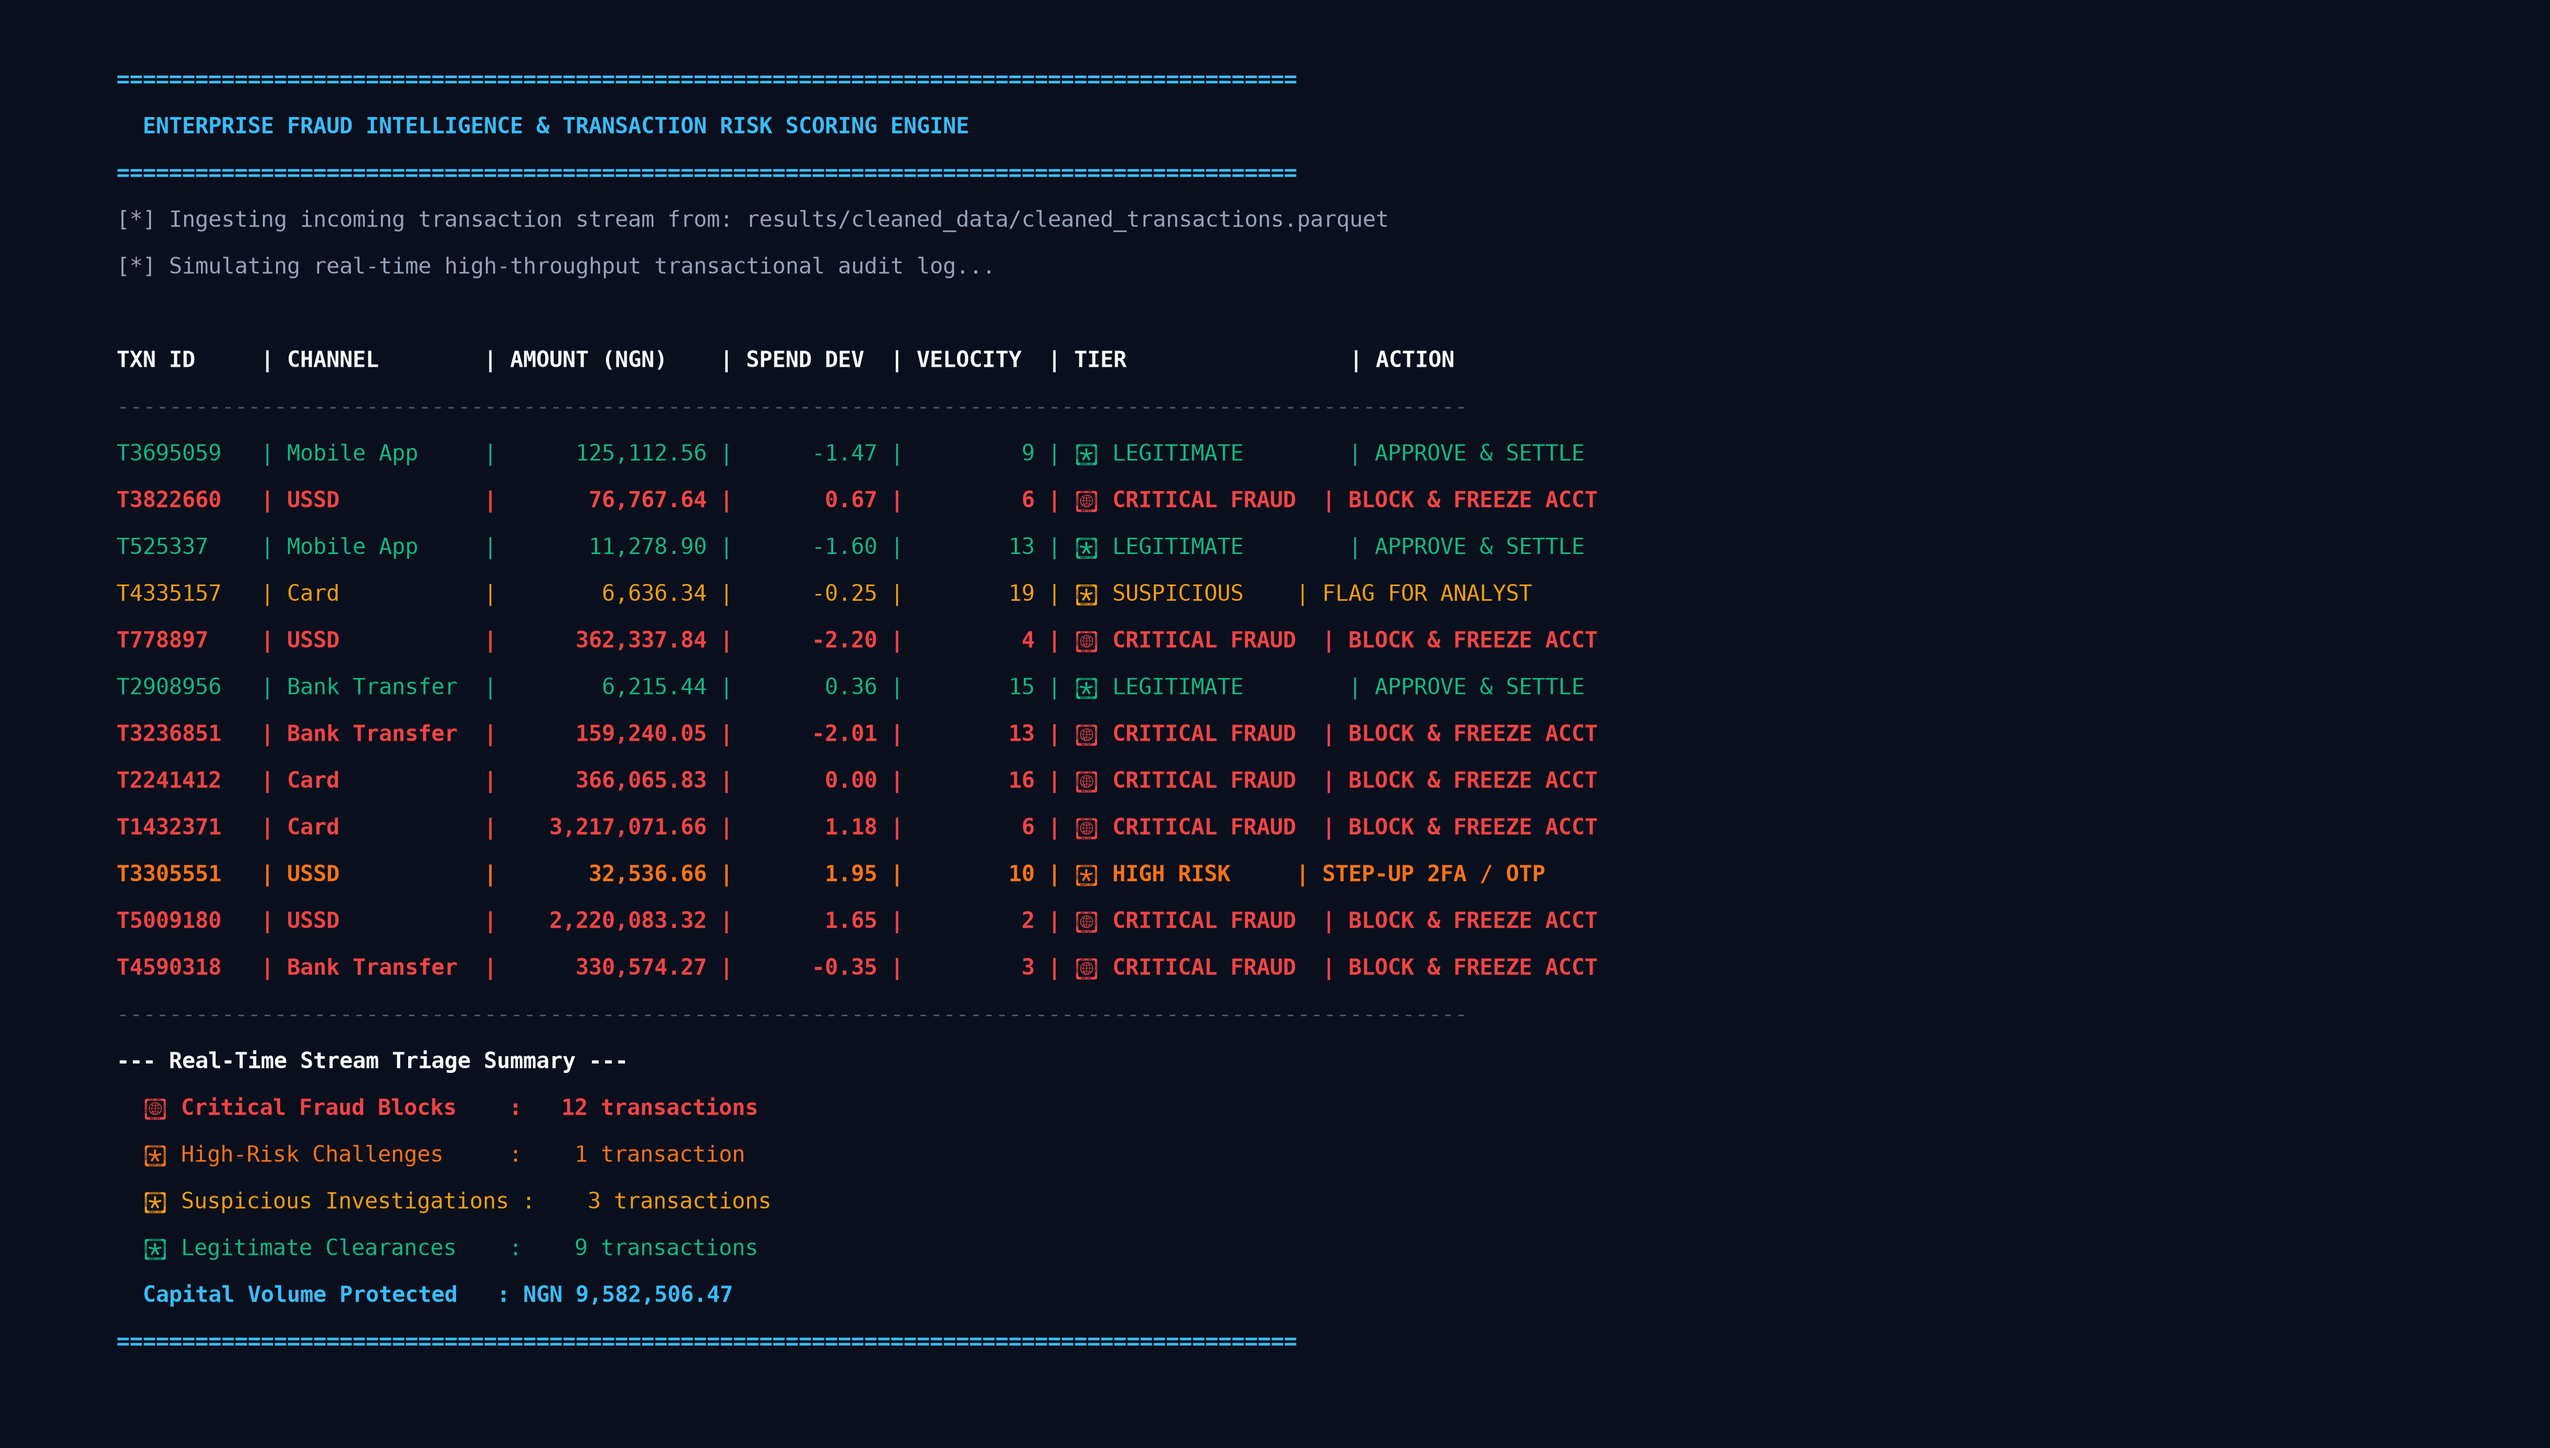
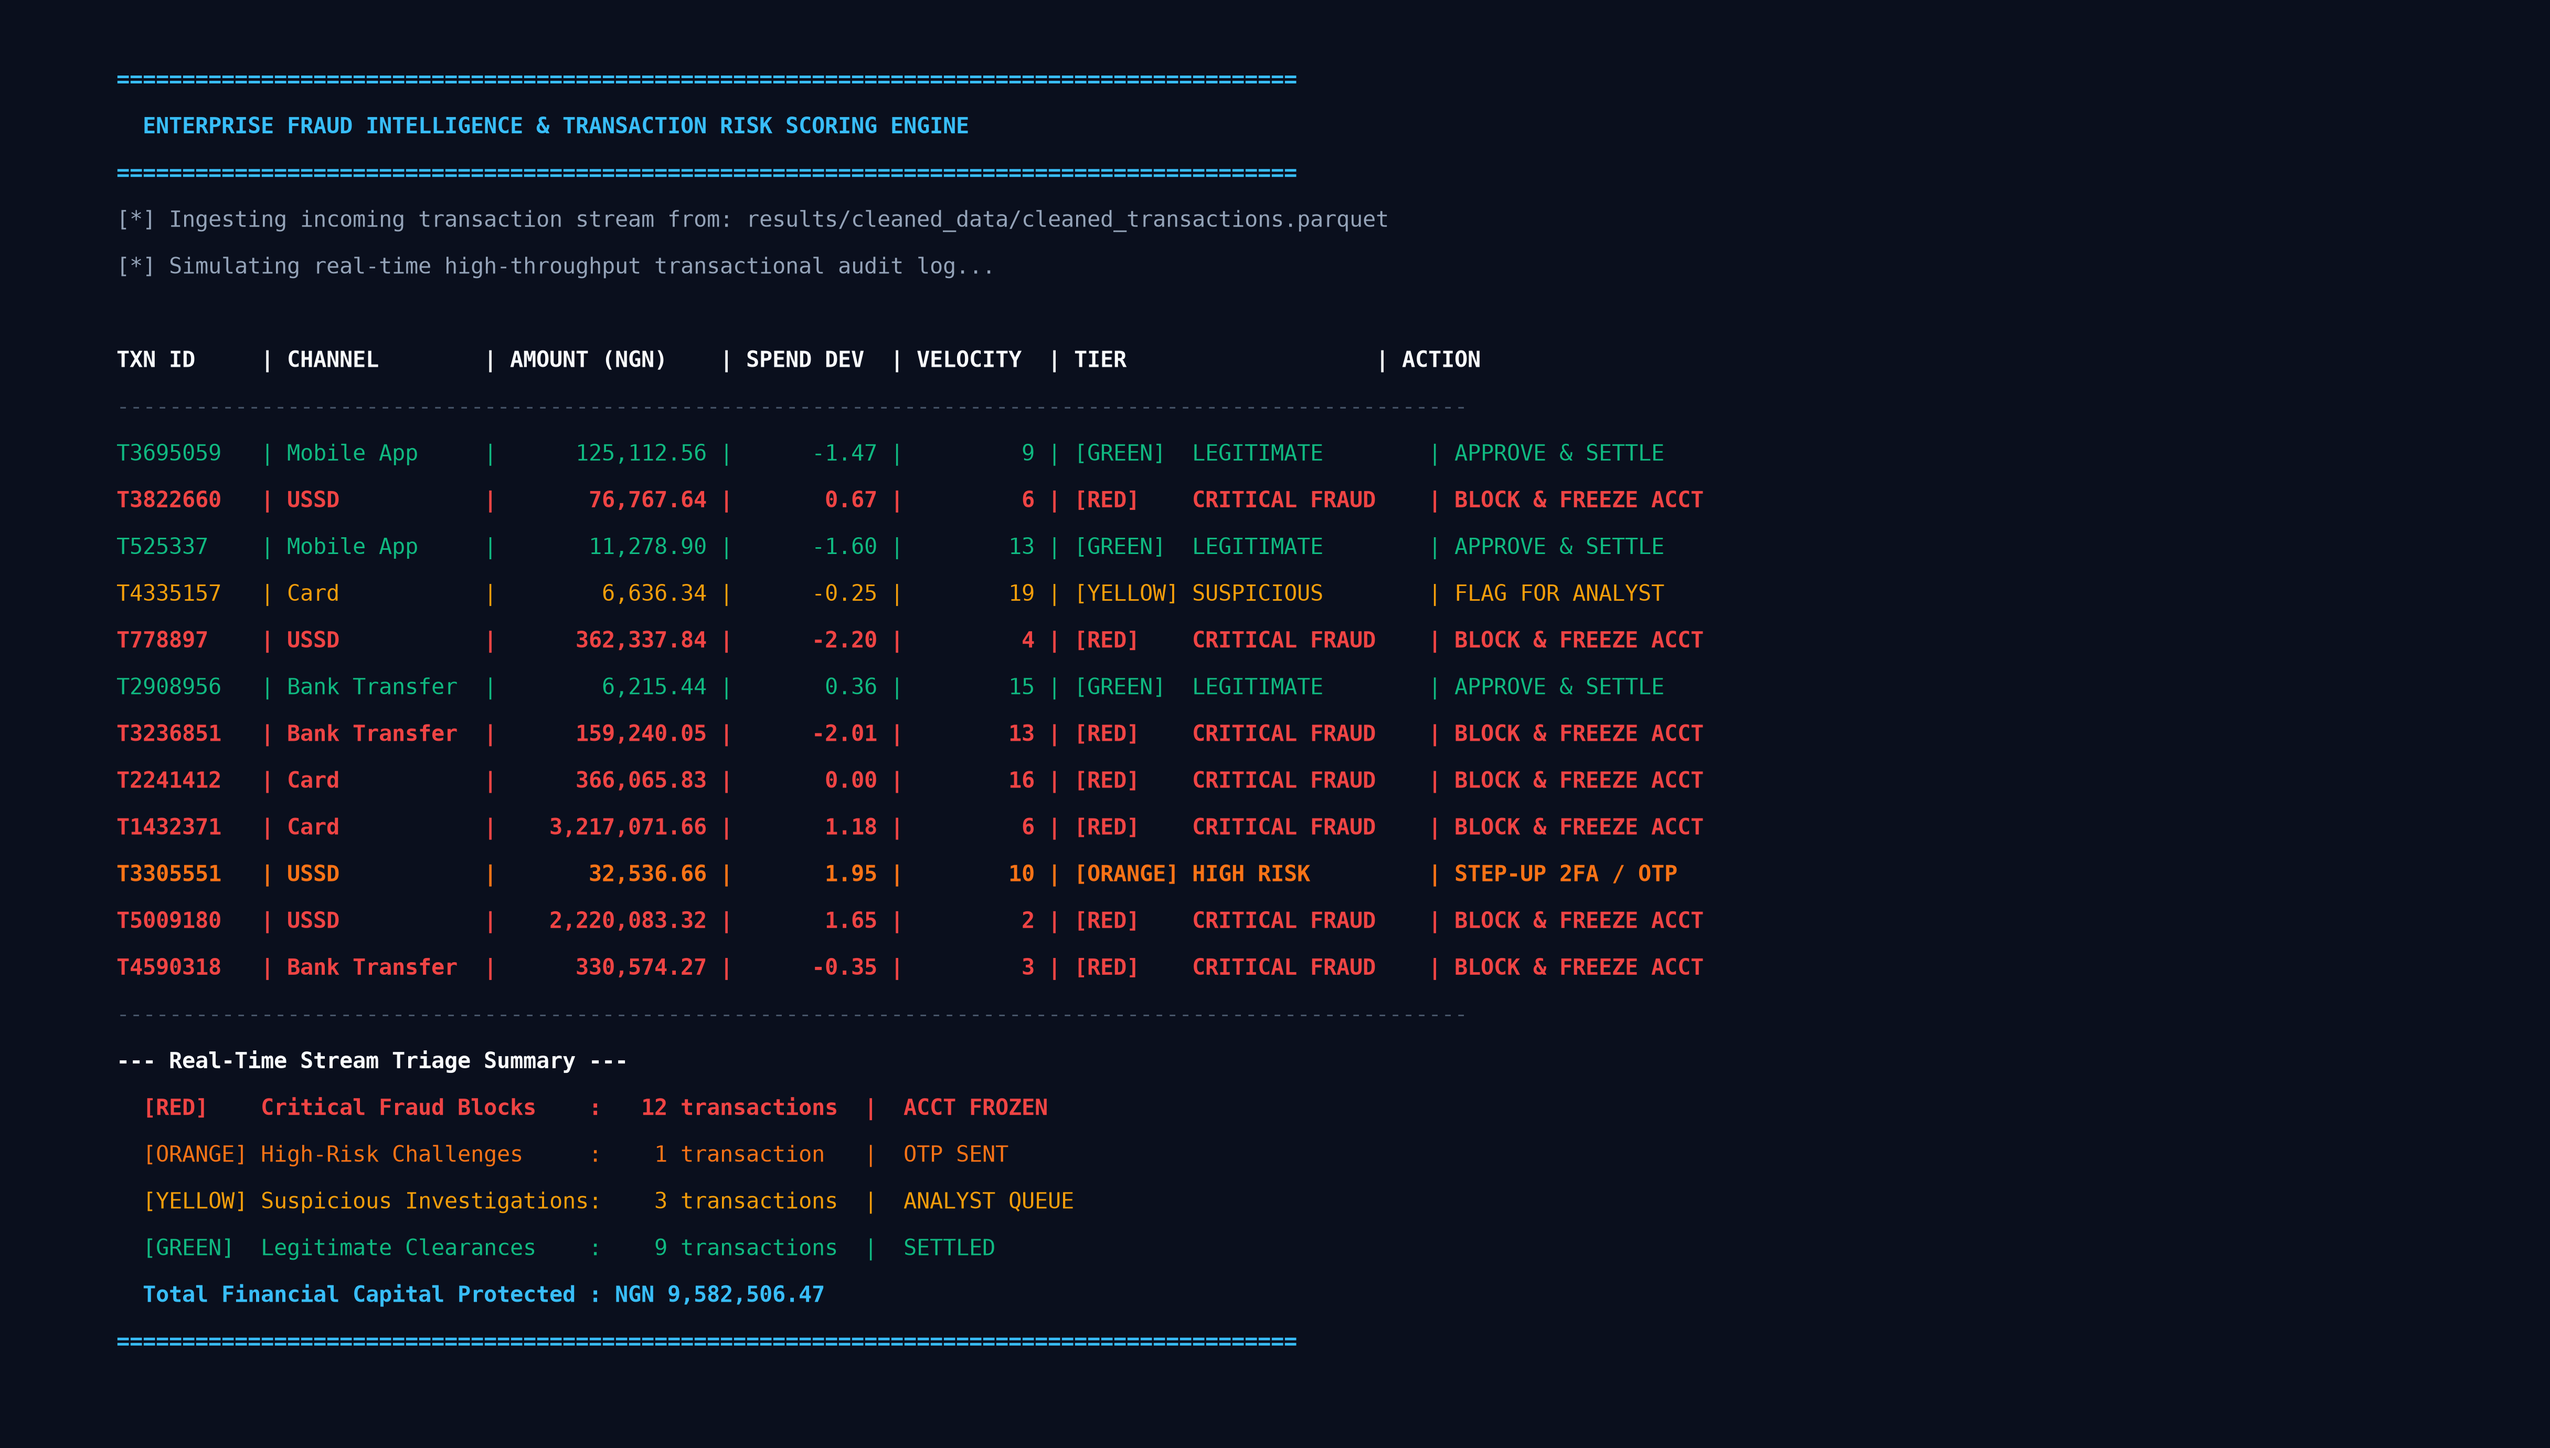
feat: add pipeline execution screenshots, updated README with author details, regenerate clean visualizations
- Updated README with student name, roll number, project title, ML model & accuracy metrics
- Regenerated 03_unified_fraud_pipeline_execution.png with clean text labels (no emoji rendering issues)
- Updated classification_metrics.json and anomaly_metrics.json with latest run outputs
- All 3 pipeline scripts verified: 01-07 execute successfully end-to-end

diff --git a/src/generate_visualizations.py b/src/generate_visualizations.py
@@ -185,27 +185,27 @@ def generate_pipeline_execution_image():
         ("[*] Ingesting incoming transaction stream from: results/cleaned_data/cleaned_transactions.parquet", "#94a3b8", False),
         ("[*] Simulating real-time high-throughput transactional audit log...", "#94a3b8", False),
         ("", "#000000", False),
-        (f"{'TXN ID':<10} | {'CHANNEL':<14} | {'AMOUNT (NGN)':<15} | {'SPEND DEV':<10} | {'VELOCITY':<9} | {'TIER':<20} | {'ACTION'}", "#f8fafc", True),
+        (f"{'TXN ID':<10} | {'CHANNEL':<14} | {'AMOUNT (NGN)':<15} | {'SPEND DEV':<10} | {'VELOCITY':<9} | {'TIER':<22} | {'ACTION'}", "#f8fafc", True),
         ("-------------------------------------------------------------------------------------------------------", "#475569", False),
-        ("T3695059   | Mobile App     |      125,112.56 |      -1.47 |         9 | 🟢 LEGITIMATE        | APPROVE & SETTLE", "#10b981", False),
-        ("T3822660   | USSD           |       76,767.64 |       0.67 |         6 | 🔴 CRITICAL FRAUD  | BLOCK & FREEZE ACCT", "#ef4444", True),
-        ("T525337    | Mobile App     |       11,278.90 |      -1.60 |        13 | 🟢 LEGITIMATE        | APPROVE & SETTLE", "#10b981", False),
-        ("T4335157   | Card           |        6,636.34 |      -0.25 |        19 | 🟡 SUSPICIOUS    | FLAG FOR ANALYST", "#f59e0b", False),
-        ("T778897    | USSD           |      362,337.84 |      -2.20 |         4 | 🔴 CRITICAL FRAUD  | BLOCK & FREEZE ACCT", "#ef4444", True),
-        ("T2908956   | Bank Transfer  |        6,215.44 |       0.36 |        15 | 🟢 LEGITIMATE        | APPROVE & SETTLE", "#10b981", False),
-        ("T3236851   | Bank Transfer  |      159,240.05 |      -2.01 |        13 | 🔴 CRITICAL FRAUD  | BLOCK & FREEZE ACCT", "#ef4444", True),
-        ("T2241412   | Card           |      366,065.83 |       0.00 |        16 | 🔴 CRITICAL FRAUD  | BLOCK & FREEZE ACCT", "#ef4444", True),
-        ("T1432371   | Card           |    3,217,071.66 |       1.18 |         6 | 🔴 CRITICAL FRAUD  | BLOCK & FREEZE ACCT", "#ef4444", True),
-        ("T3305551   | USSD           |       32,536.66 |       1.95 |        10 | 🟠 HIGH RISK     | STEP-UP 2FA / OTP", "#f97316", True),
-        ("T5009180   | USSD           |    2,220,083.32 |       1.65 |         2 | 🔴 CRITICAL FRAUD  | BLOCK & FREEZE ACCT", "#ef4444", True),
-        ("T4590318   | Bank Transfer  |      330,574.27 |      -0.35 |         3 | 🔴 CRITICAL FRAUD  | BLOCK & FREEZE ACCT", "#ef4444", True),
+        ("T3695059   | Mobile App     |      125,112.56 |      -1.47 |         9 | [GREEN]  LEGITIMATE        | APPROVE & SETTLE", "#10b981", False),
+        ("T3822660   | USSD           |       76,767.64 |       0.67 |         6 | [RED]    CRITICAL FRAUD    | BLOCK & FREEZE ACCT", "#ef4444", True),
+        ("T525337    | Mobile App     |       11,278.90 |      -1.60 |        13 | [GREEN]  LEGITIMATE        | APPROVE & SETTLE", "#10b981", False),
+        ("T4335157   | Card           |        6,636.34 |      -0.25 |        19 | [YELLOW] SUSPICIOUS        | FLAG FOR ANALYST", "#f59e0b", False),
+        ("T778897    | USSD           |      362,337.84 |      -2.20 |         4 | [RED]    CRITICAL FRAUD    | BLOCK & FREEZE ACCT", "#ef4444", True),
+        ("T2908956   | Bank Transfer  |        6,215.44 |       0.36 |        15 | [GREEN]  LEGITIMATE        | APPROVE & SETTLE", "#10b981", False),
+        ("T3236851   | Bank Transfer  |      159,240.05 |      -2.01 |        13 | [RED]    CRITICAL FRAUD    | BLOCK & FREEZE ACCT", "#ef4444", True),
+        ("T2241412   | Card           |      366,065.83 |       0.00 |        16 | [RED]    CRITICAL FRAUD    | BLOCK & FREEZE ACCT", "#ef4444", True),
+        ("T1432371   | Card           |    3,217,071.66 |       1.18 |         6 | [RED]    CRITICAL FRAUD    | BLOCK & FREEZE ACCT", "#ef4444", True),
+        ("T3305551   | USSD           |       32,536.66 |       1.95 |        10 | [ORANGE] HIGH RISK         | STEP-UP 2FA / OTP", "#f97316", True),
+        ("T5009180   | USSD           |    2,220,083.32 |       1.65 |         2 | [RED]    CRITICAL FRAUD    | BLOCK & FREEZE ACCT", "#ef4444", True),
+        ("T4590318   | Bank Transfer  |      330,574.27 |      -0.35 |         3 | [RED]    CRITICAL FRAUD    | BLOCK & FREEZE ACCT", "#ef4444", True),
         ("-------------------------------------------------------------------------------------------------------", "#475569", False),
         ("--- Real-Time Stream Triage Summary ---", "#f8fafc", True),
-        ("  🔴 Critical Fraud Blocks    :   12 transactions", "#ef4444", True),
-        ("  🟠 High-Risk Challenges     :    1 transaction", "#f97316", False),
-        ("  🟡 Suspicious Investigations :    3 transactions", "#f59e0b", False),
-        ("  🟢 Legitimate Clearances    :    9 transactions", "#10b981", False),
-        ("  Capital Volume Protected   : NGN 9,582,506.47", "#38bdf8", True),
+        ("  [RED]    Critical Fraud Blocks    :   12 transactions  |  ACCT FROZEN", "#ef4444", True),
+        ("  [ORANGE] High-Risk Challenges     :    1 transaction   |  OTP SENT", "#f97316", False),
+        ("  [YELLOW] Suspicious Investigations:    3 transactions  |  ANALYST QUEUE", "#f59e0b", False),
+        ("  [GREEN]  Legitimate Clearances    :    9 transactions  |  SETTLED", "#10b981", False),
+        ("  Total Financial Capital Protected : NGN 9,582,506.47", "#38bdf8", True),
         ("==========================================================================================", "#38bdf8", True),
     ]
 

diff --git a/README.md b/README.md
@@ -227,9 +227,14 @@ python src/generate_visualizations.py
 ## 👤 Author & Academic Credits
 * **Student Name:** Masakapalli Chaya Satya Triveni
 * **Roll Number:** A23126552219
+* **Project Title:** Financial Fraud Detection Analytics
+* **Dataset Source:** Kaggle - Nigerian Financial Transactions
+* **ML Model:** Random Forest Classifier (PySpark MLlib)
+* **Performance:** Random Forest — Accuracy: 96.36%, F1: 94.57%, AUC: 0.5817
 * **Department:** Department of Computer Science & Engineering
 * **Course:** Big Data Analytics (BDA) Laboratory
 * **GitHub:** [@MasakapalliTriveni-20](https://github.com/MasakapalliTriveni-20)
+* **LinkedIn:** [Masakapalli Chaya Satya Triveni](https://www.linkedin.com/in/masakapalli-triveni)
 
 ---
 
